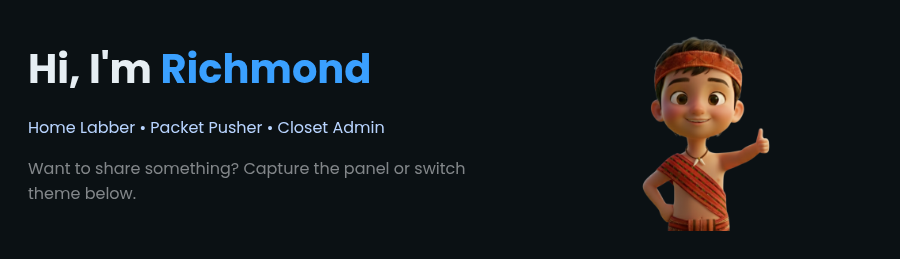
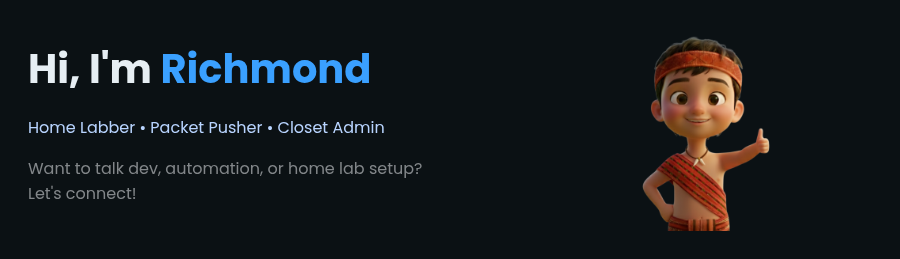
Improves UI visuals and updates local server logic
Refreshes header images and imports a modern font for a more polished look. Revises the main page message for clarity and engagement. Updates the local static server to correctly use a request handler, ensuring proper file serving during development.

Changed region(s): [[0.0933, 0.6178, 0.5289, 0.6795], [0.0311, 0.7104, 0.1556, 0.7722]]

diff --git a/ui/index.html b/ui/index.html
@@ -28,7 +28,7 @@
         <h1>Hi, I'm <span class="accent">Richmond</span></h1>
         <p class="muted">Home Labber • Packet Pusher • Closet Admin</p>
         <p class="message">
-          Want to share something? Capture the panel or switch theme below.
+          Want to talk dev, automation, or home lab setup?<br />Let's connect!
         </p>
       </section>
 

diff --git a/ui/styles.css b/ui/styles.css
@@ -1,3 +1,5 @@
+@import url("https://fonts.googleapis.com/css2?family=Poppins:wght@100;200;300;400;500;600;700;800;900&display=swap");
+
 :root {
   --accent: #3aa0ff;
 

diff --git a/ui/script.py b/ui/script.py
@@ -4,6 +4,7 @@ Simple static file server for local testing of the UI.
 
 Usage:
     python3 script.py [--port PORT]
+    python3 script.py --port 8000
 
 This lightweight server binds to `localhost` by default to avoid exposing the
 dev server on external interfaces.
@@ -12,6 +13,7 @@ from __future__ import annotations
 
 import argparse
 import socketserver
+import http.server
 import sys
 
 def main() -> int:
@@ -21,7 +23,8 @@ def main() -> int:
 
     # Bind only to localhost to keep the server local to the machine.
     try:
-        with socketserver.TCPServer(('localhost', args.port)) as httpd:
+        handler = http.server.SimpleHTTPRequestHandler
+        with socketserver.TCPServer(('localhost', args.port), handler) as httpd:
             print(f"Serving HTTP on localhost port {args.port} (http://localhost:{args.port}/) ...")
             httpd.serve_forever()
     except KeyboardInterrupt:
